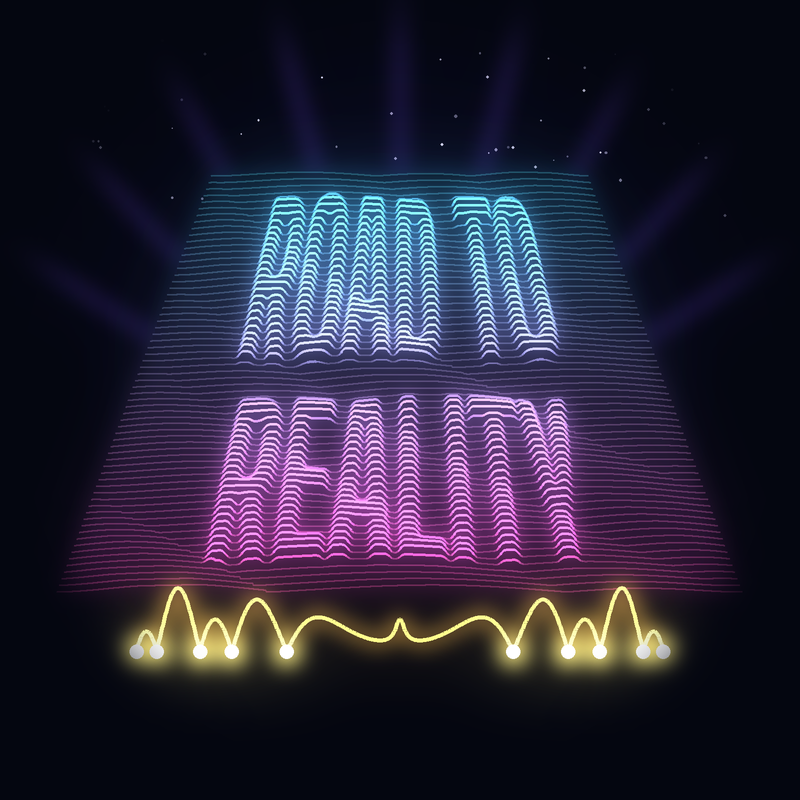
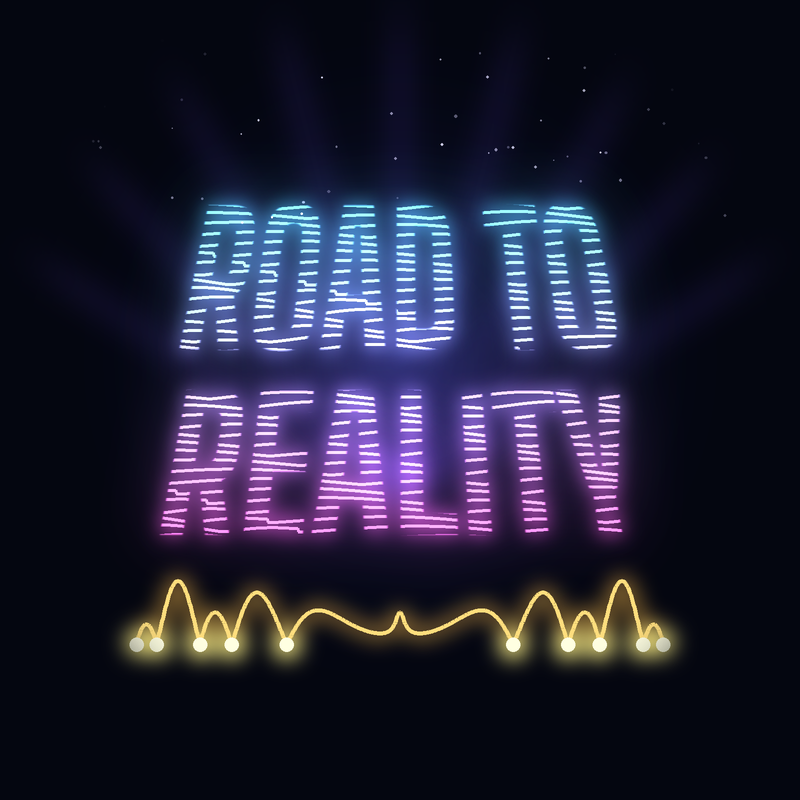
YouTube profile picture: letters built from glowing laser wave lines
Claude-Session: https://claude.ai/code/session_011fTJVoWh661rfKBRwCuSPu

diff --git a/youtube/make_profile_picture_waves.py b/youtube/make_profile_picture_waves.py
@@ -2,59 +2,60 @@ import numpy as np, mpmath
 from PIL import Image, ImageDraw, ImageFilter, ImageChops, ImageFont
 S="/tmp/claude-0/-home-user/8bfb99ee-fa22-5f61-821f-781f6f13d7d3/scratchpad/yt"
 F="/mnt/skills/examples/canvas-design/canvas-fonts/"
-N=1600; rng=np.random.default_rng(7); bgc=np.array([4,6,16])
+N=1600; rng=np.random.default_rng(7); bgc=(4,6,16)
 y,x=np.mgrid[0:N,0:N]/N; r=np.hypot(x-0.5,y-0.45)
 bg=np.zeros((N,N,3)); bg[...]=bgc; bg+=np.clip(1-r*2.2,0,1)[...,None]**2*np.array([18,22,60])
-im=Image.fromarray(bg.clip(0,255).astype(np.uint8)); glow=Image.new("RGB",(N,N))
-d=ImageDraw.Draw(im); g=ImageDraw.Draw(glow)
+im=Image.fromarray(bg.clip(0,255).astype(np.uint8)); beams=Image.new("RGB",(N,N)); d=ImageDraw.Draw(im)
 for _ in range(220):
     sx,sy=rng.uniform(0,N,2)
-    if sy>N*0.3: continue
+    if sy>N*0.28: continue
     b=int(rng.uniform(60,220)); s=rng.uniform(1,3); d.ellipse((sx-s,sy-s,sx+s,sy+s),fill=(b,b,min(255,b+25)))
-# light beams from behind the wave object
 cx,cy=N*0.5,N*0.62
-for a in np.linspace(-1.0,1.0,9):
-    g.line((cx,cy,cx+np.sin(a)*N,cy-np.cos(a)*N),fill=(55,35,115),width=12)
-# text mask in a flat (u,v) plane
-MW,MH=1400,620
-mask=Image.new("L",(MW,MH)); md=ImageDraw.Draw(mask)
-f=ImageFont.truetype(F+"BigShoulders-Bold.ttf",300)
-md.text((MW/2,165),"ROAD TO",font=f,fill=255,anchor="mm"); md.text((MW/2,465),"REALITY",font=f,fill=255,anchor="mm")
-M=np.asarray(mask.filter(ImageFilter.GaussianBlur(5)),float)/255
-# zeta wiggle on the critical line
-T=np.linspace(14,30,MW); Z=np.array([float(abs(mpmath.zeta(complex(0.5,t)))) for t in T[::5]]); Z=np.interp(np.arange(MW),np.arange(0,MW,5),Z)
-n=64; top=N*0.22; bottom=N*0.74
-for i in range(n):
-    p=i/(n-1)
-    z=0.55+0.45*p                                  # dome: narrower at the back
-    v=int(p*(MH-1)); h=M[v]
-    yb=top+(bottom-top)*p
-    u=np.arange(MW)-MW/2
-    env=np.clip(1-(np.abs(u)/(MW/2))**6,0,1)         # soft ends
-    xs=N/2+u*z*0.98
-    ys=yb-h*16-np.clip(np.roll(Z,i*29),0,2.5)*6*z*env
-    pts=list(zip(xs,ys)); poly=pts+[(xs[-1],N),(xs[0],N)]
-    d.polygon(poly,fill=tuple(bgc)); g.polygon(poly,fill=(0,0,0))
-    c=np.array([a+(b-a)*p for a,b in zip((60,200,255),(255,70,200))])
-    lum=0.28+0.72*h
-    # draw in segments so brightness follows the letters
-    for k in range(0,MW-6,6):
-        L=lum[k:k+7].max(); cc=tuple(int(x) for x in np.minimum(255,c*L*0.85+40*L))
-        seg=pts[k:k+7]
-        g.line(seg,fill=tuple(int(x*0.55*L) for x in c),width=10)
-        d.line(seg,fill=cc,width=3 if L<0.6 else 5)
-# golden critical line in front with the zeros of zeta
-yb=bottom+120; T2=np.linspace(-33,33,900)
-H=np.array([float(abs(mpmath.zeta(complex(0.5,t)))) for t in T2])
-xs=N/2+T2/33*N*0.33; ys=yb-np.minimum(H,3.2)*45
-pts=list(zip(xs,ys)); g.line(pts,fill=(160,120,40),width=24); d.line(pts,fill=(255,220,120),width=8)
-for k in range(1,len(T2)-1):
-    if H[k]<H[k-1] and H[k]<H[k+1] and H[k]<0.25:
-        px,py=pts[k]; R=14
-        g.ellipse((px-2*R,py-2*R,px+2*R,py+2*R),fill=(255,240,120)); d.ellipse((px-R,py-R,px+R,py+R),fill=(255,255,225))
-bl=glow.filter(ImageFilter.GaussianBlur(20)); bl2=glow.filter(ImageFilter.GaussianBlur(70)).point(lambda v:int(v*0.6))
-im=ImageChops.add(ImageChops.add(im,bl),bl2)
+bd=ImageDraw.Draw(beams)
+for a in np.linspace(-1.0,1.0,9): bd.line((cx,cy,cx+np.sin(a)*N,cy-np.cos(a)*N),fill=(55,35,115),width=12)
+im=ImageChops.add(im,beams.filter(ImageFilter.GaussianBlur(30)))
+# letters, with dome-like perspective (top narrower)
+mask=Image.new("L",(N,N)); md=ImageDraw.Draw(mask)
+f1=ImageFont.truetype(F+"BigShoulders-Bold.ttf",360)
+md.text((N/2,560),"ROAD TO",font=f1,fill=255,anchor="mm"); md.text((N/2,930),"REALITY",font=f1,fill=255,anchor="mm")
+top,bot=380,1110
+def warp(img):
+    # trapezoid: scale x by s(y) around the centre
+    A=np.asarray(img); out=np.zeros_like(A); xs=np.arange(N)
+    for yy in range(N):
+        p=np.clip((yy-top)/(bot-top),0,1); s=0.72+0.28*p
+        src=(xs-N/2)/s+N/2
+        out[yy]=np.interp(src,xs,A[yy].astype(float),left=0,right=0)
+    return Image.fromarray(out.astype(np.uint8))
+mask=warp(mask)
+# stacked laser wave lines (smooth bumps like the zeta rows), clipped to the letters
+T=np.linspace(14,40,N); Z=np.array([float(abs(mpmath.zeta(complex(0.6,t)))) for t in T[::8]]); Z=np.interp(np.arange(N),np.arange(0,N,8),Z)
+lines=Image.new("RGB",(N,N)); glow=Image.new("RGB",(N,N)); ld=ImageDraw.Draw(lines); gd=ImageDraw.Draw(glow)
+k=0
+for y0 in np.arange(top,bot+30,19):
+    p=(y0-top)/(bot-top)
+    c=np.array([a+(b-a)*p for a,b in zip((70,210,255),(255,80,210))])
+    ys=y0-np.roll(Z,k*61)*5.5; k+=1
+    pts=list(zip(range(N),ys))
+    ld.line(pts,fill=tuple(int(v) for v in np.minimum(255,c*0.85+45)),width=6)
+    gd.line(pts,fill=tuple(int(v*0.6) for v in c),width=16)
+m2=mask.filter(ImageFilter.GaussianBlur(1.5))
+lines=Image.composite(lines,Image.new("RGB",(N,N)),m2)
+glow=Image.composite(glow,Image.new("RGB",(N,N)),m2.filter(ImageFilter.MaxFilter(7)))
+im=ImageChops.add(im,glow.filter(ImageFilter.GaussianBlur(18)))
+im=ImageChops.add(im,glow.filter(ImageFilter.GaussianBlur(60)).point(lambda v:int(v*0.6)))
+im=ImageChops.add(im,lines)
+# golden critical line with zeros in front
+g2=Image.new("RGB",(N,N)); d2=ImageDraw.Draw(g2); dd=ImageDraw.Draw(im)
+T2=np.linspace(-33,33,900); H=np.array([float(abs(mpmath.zeta(complex(0.5,t)))) for t in T2])
+xs=N/2+T2/33*N*0.33; ys=1290-np.minimum(H,3.2)*45; pts=list(zip(xs,ys))
+d2.line(pts,fill=(170,125,40),width=24)
+zs=[pts[k] for k in range(1,len(T2)-1) if H[k]<H[k-1] and H[k]<H[k+1] and H[k]<0.25]
+for px,py in zs: d2.ellipse((px-28,py-28,px+28,py+28),fill=(255,240,120))
+im=ImageChops.add(im,g2.filter(ImageFilter.GaussianBlur(20))); dd=ImageDraw.Draw(im)
+dd.line(pts,fill=(255,222,125),width=8)
+for px,py in zs: dd.ellipse((px-14,py-14,px+14,py+14),fill=(255,255,225))
 m=Image.new("L",(N,N)); ImageDraw.Draw(m).ellipse((40,40,N-40,N-40),fill=255); m=m.filter(ImageFilter.GaussianBlur(50))
-im=Image.composite(im,Image.new("RGB",(N,N),tuple(bgc)),m).resize((800,800),Image.LANCZOS); im.save(S+"/avatar4.png")
+im=Image.composite(im,Image.new("RGB",(N,N),bgc),m).resize((800,800),Image.LANCZOS); im.save(S+"/avatar5.png")
 c=Image.new("RGB",(800,800),(255,255,255)); mm=Image.new("L",(800,800)); ImageDraw.Draw(mm).ellipse((0,0,800,800),fill=255)
-c.paste(im,(0,0),mm); prev=Image.new("RGB",(1000,800),(255,255,255)); prev.paste(c,(0,0)); prev.paste(c.resize((98,98),Image.LANCZOS),(860,40)); prev.save(S+"/avatar4_check.jpg")
+c.paste(im,(0,0),mm); prev=Image.new("RGB",(1000,800),(255,255,255)); prev.paste(c,(0,0)); prev.paste(c.resize((98,98),Image.LANCZOS),(860,40)); prev.save(S+"/avatar5_check.jpg")
